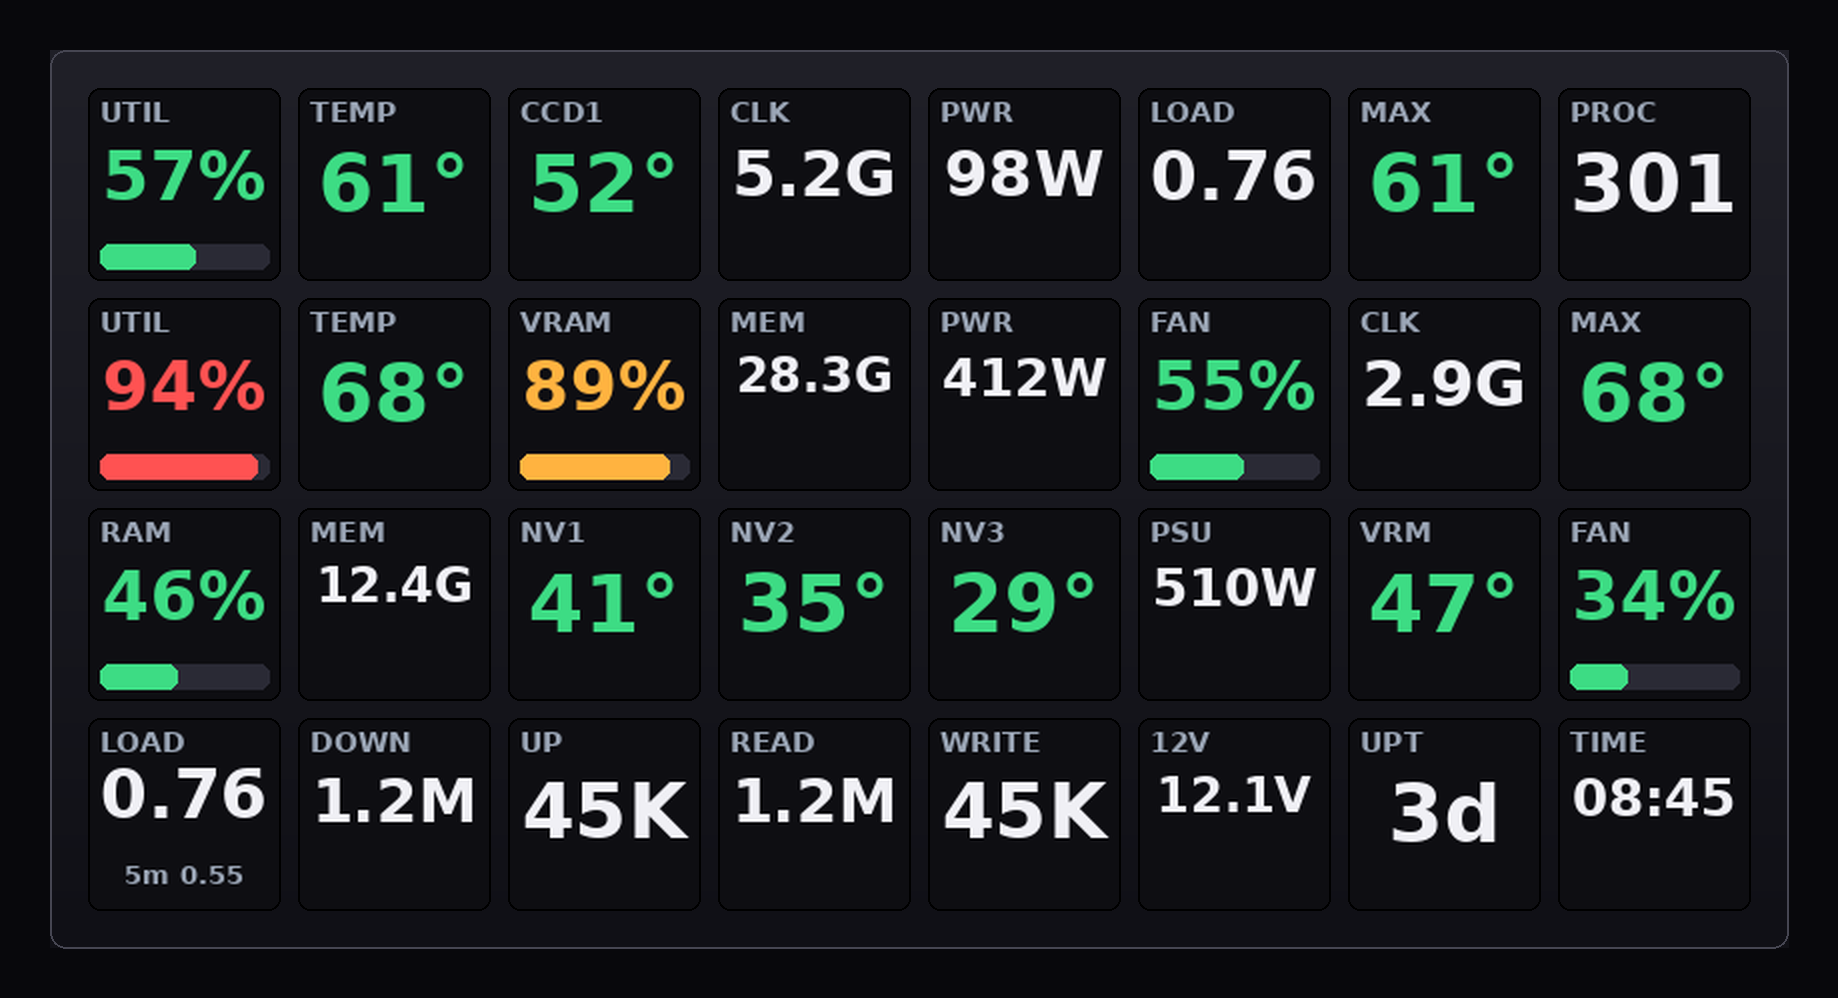
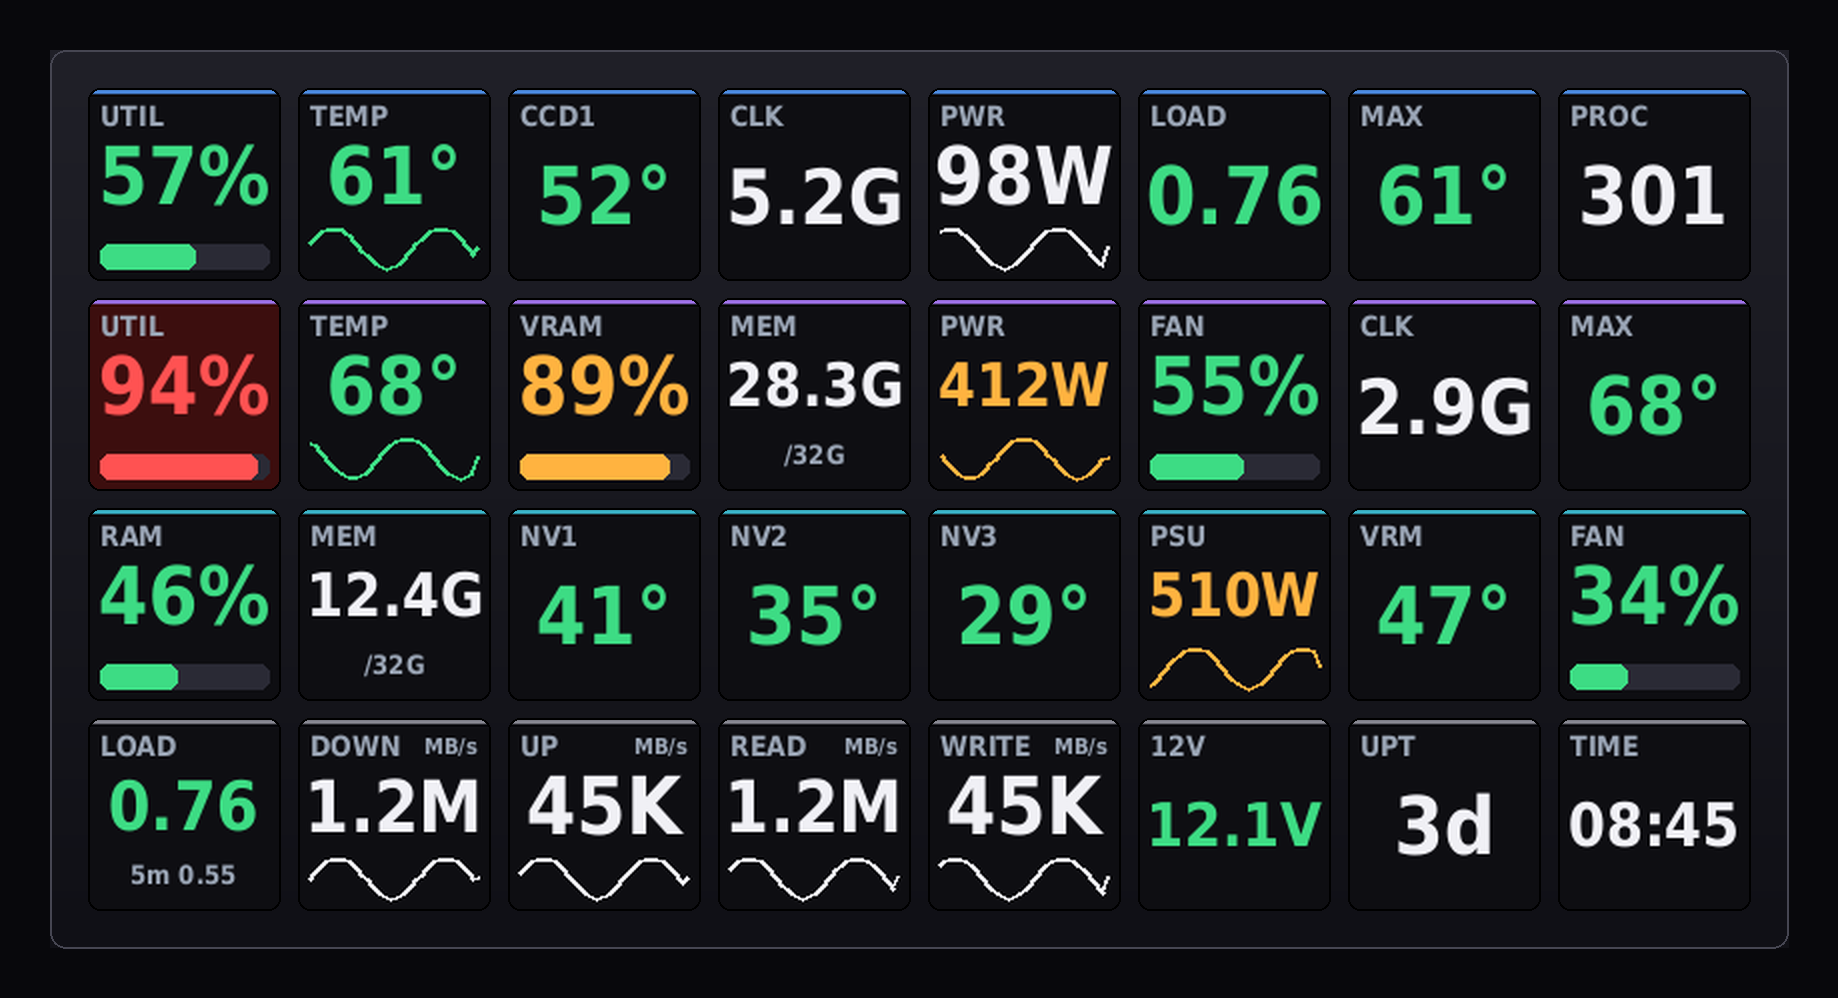
docs: describe the key zones and refresh the README mockup

diff --git a/deck_stats.py b/deck_stats.py
@@ -20,9 +20,12 @@ Graphic rules:
   - a unit in the top-right corner only for values that carry no unit of their
     own (MB/s rates); it is dropped when it would collide with the label
   - bar only on UTIL/VRAM/RAM/FAN %  (bottom zone, priority over the others)
-  - otherwise a sub-line (a total, a 5 min load) or a sparkline
+  - a sub-line carries the total (MEM) or the 5 min load (LOAD)
+  - a sparkline carries the last ~1 min of the keys with a free bottom zone
   - temperatures: green normal -> yellow -> red
-  - LOAD carries the 1 min average, with the 5 min one as a small second line
+  - a key at its crit threshold also gets a dark red background tint
+  - LOAD shows the 1 min average large with the 5 min one as a small sub-line,
+    colored by load / core count; 12V is colored by its deviation from 12.00 V
 
 Usage:
   deck_stats.py            run the monitor
@@ -139,7 +142,7 @@ COL_OK = (61, 220, 132)
 COL_WARN = (255, 179, 64)
 COL_CRIT = (255, 82, 82)
 
-# One accent colour per row, drawn as a 3 px strip on the top edge of every key
+# One accent color per row, drawn as a 3 px strip on the top edge of every key
 # so the four groups stay recognisable at a glance. Deliberately outside the
 # green/amber/red family, which is reserved for status.
 ROW_ACCENT = {
@@ -615,14 +618,14 @@ def ratio_color(ratio, warn, crit):
 
 
 def load_color(value):
-    """LOAD colour from load / core count (warn >= 70 %, crit >= 100 %)."""
+    """LOAD color from load / core count (warn >= 70 %, crit >= 100 %)."""
     if value is None:
         return COL_OFF
     return ratio_color(value / CPU_COUNT, LOAD_WARN_RATIO, LOAD_CRIT_RATIO)
 
 
 def rail_color(value):
-    """12 V colour from the relative deviation from 12.00 V."""
+    """12 V color from the relative deviation from 12.00 V."""
     if value is None:
         return COL_OFF
     dev_pct = abs(value - RAIL12_NOMINAL) / RAIL12_NOMINAL * 100.0
@@ -723,7 +726,7 @@ def render_key(label, kind, value, warn=0, crit=0, row=None, unit=None,
     cy = 44 if has_bottom else 54
 
     # A key that reached its critical threshold gets a dark red background so
-    # the state is visible from across the room, not just from the glyph colour.
+    # the state is visible from across the room, not just from the glyph color.
     bg = COL_BG
     if crit and kind in TINTED_KINDS and value is not None and value >= crit:
         bg = COL_BG_CRIT

diff --git a/README.md b/README.md
@@ -36,14 +36,14 @@ ROW 3  LINUX   LOAD | DOWN | UP   | READ|WRITE| 12V  | UPT | TIME
   `PSU`, `DOWN`, `UP`, `READ`, `WRITE`. The bottom zone holds exactly one thing,
   in priority order: bar → sub-line → sparkline. The line is scaled min-max over
   the window, with a minimum span of 1 % of the value so a flat series stays flat
-  instead of blowing up sensor noise, and it is drawn in the key's current colour
+  instead of blowing up sensor noise, and it is drawn in the key's current color
 - A 3 px accent strip on the top edge of every key marks the row:
   blue = CPU, violet = GPU, cyan = SYSTEM, gray = LINUX. These hues are
   outside the green/amber/red family on purpose, which is reserved for status
 - Temperatures: green normal → yellow → red
 - `LOAD` has no absolute warning level: it is normalised by core count, yellow
   from 70 % of the cores, red from 100 %. The 5 min average stays a gray sub-line
-- `12V` is coloured by the deviation from 12.00 V: yellow from 5 %, red from 8 %
+- `12V` is colored by the deviation from 12.00 V: yellow from 5 %, red from 8 %
 - A key that reaches its critical threshold also gets a dark red background
   tint, so the alarm survives the distance
 - `--` = sensor unavailable at that moment (never a placeholder `0`)
